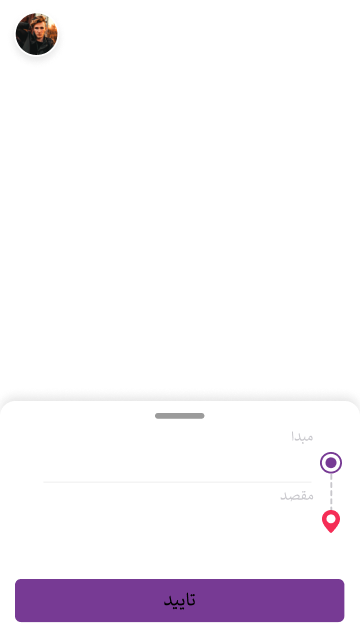
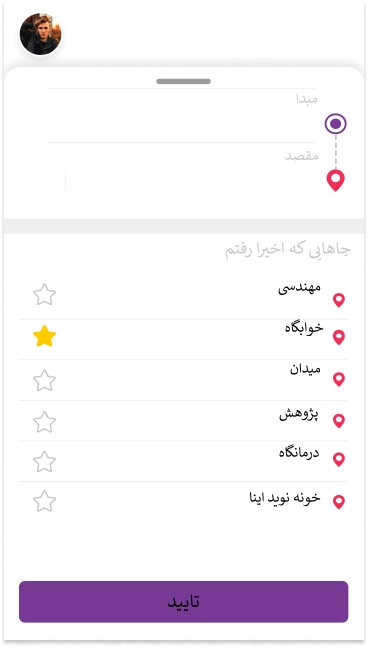
add code  go to baxi_user_choose_vehicle_type page

diff --git a/src/BAXI.py b/src/BAXI.py
@@ -541,33 +541,33 @@ class Ui_BAXI(object):
         self.label_18.setPixmap(QtGui.QPixmap("../image/user_home/user_home.png"))
         self.label_18.setObjectName("label_18")
         self.pushButt_scroll_user_home = QtWidgets.QPushButton(parent=self.user_home)
-        self.pushButt_scroll_user_home.setGeometry(QtCore.QRect(152, 407, 51, 16))
+        self.pushButt_scroll_user_home.setGeometry(QtCore.QRect(160, 70, 51, 16))
         self.pushButt_scroll_user_home.setText("")
         self.pushButt_scroll_user_home.setFlat(True)
         self.pushButt_scroll_user_home.setObjectName("pushButt_scroll_user_home")
-        self.pickup_lat_user_home = QtWidgets.QTextEdit(parent=self.user_home)
-        self.pickup_lat_user_home.setGeometry(QtCore.QRect(20, 447, 141, 41))
-        self.pickup_lat_user_home.setFrameShape(QtWidgets.QFrame.Shape.Box)
-        self.pickup_lat_user_home.setObjectName("pickup_lat_user_home")
-        self.pickup_lon_user_home = QtWidgets.QTextEdit(parent=self.user_home)
-        self.pickup_lon_user_home.setGeometry(QtCore.QRect(170, 447, 141, 41))
-        self.pickup_lon_user_home.setFrameShape(QtWidgets.QFrame.Shape.Box)
-        self.pickup_lon_user_home.setObjectName("pickup_lon_user_home")
-        self.drop_off_lat_user_home = QtWidgets.QTextEdit(parent=self.user_home)
-        self.drop_off_lat_user_home.setGeometry(QtCore.QRect(20, 510, 141, 41))
-        self.drop_off_lat_user_home.setFrameShape(QtWidgets.QFrame.Shape.Box)
-        self.drop_off_lat_user_home.setObjectName("drop_off_lat_user_home")
-        self.deop_off_lon_user_home = QtWidgets.QTextEdit(parent=self.user_home)
-        self.deop_off_lon_user_home.setGeometry(QtCore.QRect(170, 510, 141, 41))
-        self.deop_off_lon_user_home.setFrameShape(QtWidgets.QFrame.Shape.Box)
-        self.deop_off_lon_user_home.setObjectName("deop_off_lon_user_home")
+        self.get_pickup_lat_user_home = QtWidgets.QTextEdit(parent=self.user_home)
+        self.get_pickup_lat_user_home.setGeometry(QtCore.QRect(20, 105, 141, 41))
+        self.get_pickup_lat_user_home.setFrameShape(QtWidgets.QFrame.Shape.Box)
+        self.get_pickup_lat_user_home.setObjectName("get_pickup_lat_user_home")
+        self.get_pickup_lon_user_home = QtWidgets.QTextEdit(parent=self.user_home)
+        self.get_pickup_lon_user_home.setGeometry(QtCore.QRect(180, 105, 141, 41))
+        self.get_pickup_lon_user_home.setFrameShape(QtWidgets.QFrame.Shape.Box)
+        self.get_pickup_lon_user_home.setObjectName("get_pickup_lon_user_home")
+        self.get_drop_off_lat_user_home = QtWidgets.QTextEdit(parent=self.user_home)
+        self.get_drop_off_lat_user_home.setGeometry(QtCore.QRect(20, 160, 141, 41))
+        self.get_drop_off_lat_user_home.setFrameShape(QtWidgets.QFrame.Shape.Box)
+        self.get_drop_off_lat_user_home.setObjectName("get_drop_off_lat_user_home")
+        self.get_deop_off_lon_user_home = QtWidgets.QTextEdit(parent=self.user_home)
+        self.get_deop_off_lon_user_home.setGeometry(QtCore.QRect(180, 160, 141, 41))
+        self.get_deop_off_lon_user_home.setFrameShape(QtWidgets.QFrame.Shape.Box)
+        self.get_deop_off_lon_user_home.setObjectName("get_deop_off_lon_user_home")
         self.pushButt_profile_user_home = QtWidgets.QPushButton(parent=self.user_home)
-        self.pushButt_profile_user_home.setGeometry(QtCore.QRect(20, 20, 31, 29))
+        self.pushButt_profile_user_home.setGeometry(QtCore.QRect(20, 10, 41, 41))
         self.pushButt_profile_user_home.setText("")
         self.pushButt_profile_user_home.setFlat(True)
         self.pushButt_profile_user_home.setObjectName("pushButt_profile_user_home")
         self.pushButt_accept_user_home = QtWidgets.QPushButton(parent=self.user_home)
-        self.pushButt_accept_user_home.setGeometry(QtCore.QRect(22, 580, 311, 41))
+        self.pushButt_accept_user_home.setGeometry(QtCore.QRect(22, 580, 321, 41))
         self.pushButt_accept_user_home.setText("")
         self.pushButt_accept_user_home.setFlat(True)
         self.pushButt_accept_user_home.setObjectName("pushButt_accept_user_home")

diff --git a/src/BAXI_MinWindow.py b/src/BAXI_MinWindow.py
@@ -18,7 +18,6 @@ class MainWindow():
         self.mp = MapWindow()
         self.mp.setupUi(self.main_win)
 
-
         # waiting page -------------------------------------------------------------------
         self.show_loading()
         # --------------------------------------------------------------------------------
@@ -121,6 +120,8 @@ class MainWindow():
         # go to show_user_home page ---------------------------------------------------------------------
         self.ui.pushButt_next_get_flname_user.clicked.connect(self.show_user_home)
         # -------------------------------------------------------------------------------------------------
+        # go to baxi_user_choose_vehicle_type page -------------------------
+        self.ui.pushButt_accept_user_home.clicked.connect(self.show_baxi_user_choose_vehicle_type)
 
     def show(self):
         self.main_win.show()
@@ -183,7 +184,6 @@ class MainWindow():
         self.ui.stackedWidget.setCurrentWidget(self.mp.show())
         # self.ui.stackedWidget.createWindowContainer(self.mp.show)
 
-
     def baxi_driver_ful_info(self):
         # -----------------------------------------------------
         # get number and show in terminal:
@@ -227,6 +227,9 @@ class MainWindow():
 
     def show_get_motor_baxi_box_info(self):
         self.ui.stackedWidget.setCurrentWidget(self.ui.get_motor_baxi_box_info)
+
+    def show_baxi_user_choose_vehicle_type(self):
+        self.ui.stackedWidget.setCurrentWidget(self.ui.baxi_user_choose_vehicle_type)
 
 
 if __name__ == "__main__":
